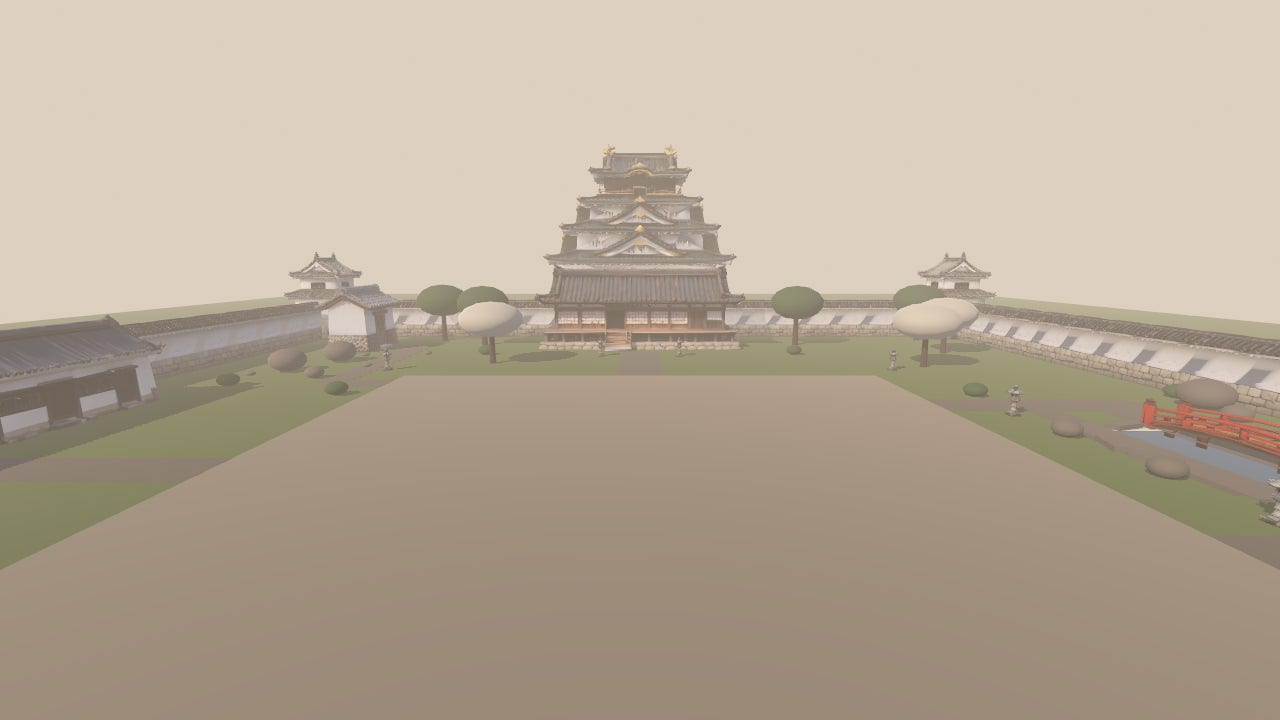
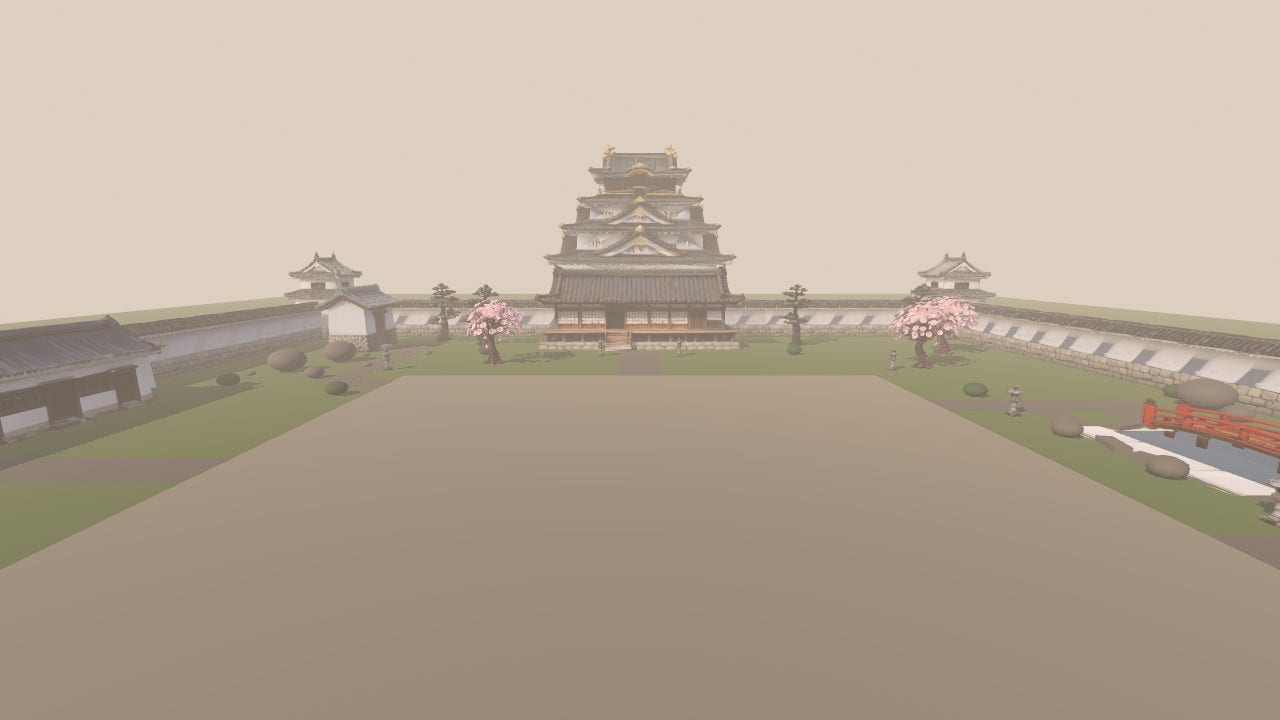
Courtyard batch 3 docs: deviations #23-#25, integration plan section 12 (budget and render cost before/after), credits, re-rendered screenshots

diff --git a/docs/courtyard/DEVIATIONS.md b/docs/courtyard/DEVIATIONS.md
@@ -8,7 +8,7 @@ The graybox is generated from `layout_data.py`, which is read in place (never co
 edited) by `tools/courtyard/gen_graybox.py`. Every placement, spawn, path and prefab comes
 from that file; re-run the generator after the blueprint changes.
 
-Layout, coordinates, spawns and nav AABB follow the blueprint; colliders follow it except where #17 and #20 fit them to the delivered meshes.
+Layout, coordinates, spawns and nav AABB follow the blueprint; colliders follow it except where #17, #20, #23 and #25 fit them to the delivered meshes.
 The deviations below are about file locations, graybox detail and fitting the delivered models.
 
 | # | Blueprint says | Built | Why |
@@ -35,6 +35,9 @@ The deviations below are about file locations, graybox detail and fitting the de
 | 20 | Bill's collider boxes: walls 5 m tall × 1.6 m, turrets 8 × 10 × 8, gate 16 × 10 × 8, hall 24 × 9 × 12 | Simple boxes fitted to BJORN's measured meshes (ground footprint, full height; `glb_probe.py`): **walls** 4.74 m tall × 1.5 m thick, still one box per straight run (5 boxes), each run extended to the turret / gate faces plus 0.1 m overlap (N 72.72 m; E/W 72.74 m; SW/SE 29.7 m); **turrets** 7.48 × 10.72 × 7.46; **gate** 13.52 × 10.91 × 6.4, centre z 33.88, courtyard face at z 30.68 (was 30); **hall** 22.4 × 9.42 × 11.78, centre z −38.89. | Kirk's request (Oct 30, 7:52 PM). The boxes follow the widest part at the ground, so battered turret bases and roof eaves still overhang/underhang the box slightly above head height. Re-checked: nav, routes, spawns, combat area, arch crossing and a new camera-clearance check (SpringArm sphere 0.25 m swept back from 1.55 m in 8 directions at every spawn and 5 tight spots: at least 2.81 m free everywhere, min arm is 2.2 m). |
 | 21 | No render-cost settings in the blueprint | `CourtyardProp` exports `model_lod_bias`, `model_visibility_range_end` and `..._margin`, applied to every GeometryInstance3D of the imported model (`MODEL_RENDER` in the generator): wall modules lod_bias 0.3; lanterns hidden beyond 55 m (5 m hysteresis). Sun: 2 PSSM splits, 80 m (#10). | Measured in a windowed Forward+ run (llvmpipe): over 6 views draw calls 513 → 316 and primitives 7.55M → 3.56M (INTEGRATION_PLAN §11). Shadow passes were ~74% of the primitives. No visible difference in the 6 screenshots. |
 | 22 | — (generator bug) | The 200 × 200 m outer grass plane (top y −0.055) covered the pond water (y −0.3), so the pond rendered as grass in every earlier build. Replaced by four boxes around the courtyard ground. | Found in the first windowed screenshots; the pond water is now visible. |
+| 23 | Trees (`PINE1–6`, `MAPLE1–3`, `SAKURA1–5`): 6 × 7 × 6 / 5 × 5 × 5 / 6 × 6 × 6 m footprints at (x, z), trunk cylinders r0.35 h3 (pine) and r0.3 h2.5 (maple, sakura) | BJORN's batch 3 meshes, one shared mesh per species (14 instances). Bill's (x, z) is used as the **trunk** position: the GLB origin is at the trunk base, so the canopy footprint is not centred on it. Uniform scale to Bill's height (`HEIGHT_FIT`), so canopies are smaller than his boxes: pine 6.25 × 7 × 3.58 (Z −40%), sakura 5.81 × 6 × 5.22 (−3% / −13%), maple 4.04 × 5 × 4.04 (−19%). Trunk-only cylinders per Kirk/BJORN: pine r0.45 h2.5 at local (−0.3, 1.25, 0.15), sakura r0.4 h2.3, maple r0.2 h2.0; canopies do not collide. Yaw overrides: **PINE3 88° (Bill 134°)**, **PINE6 312° (Bill 335°)**. Visibility range end 100 m (+10 m margin) for all trees. | At Bill's yaws the PINE3 canopy clipped 0.54 m into wall run WE11 and PINE6 0.29 m into turret TNE (`tools/courtyard/tree_fit.py`, now 0 clips at 0.25 m margin). Rotating was preferred to moving the trunks. Godot's auto-LOD saves only ~3% on these meshes (bias 0.05), so a visibility range is used instead; proper LODs requested from BJORN. Checked: trees are outside the combat square, ≥ 4.0 m from every spawn (nearest SAKURA5), all routes and the camera-clearance check pass. The pine root flare (~1 m) is wider than its r0.45 collider, so the player can step onto the visible roots. |
+| 24 | P5 / P6 bridge spurs: straight strips z −10 → 10 across the pond | Each strip is split into `<name>N` (z −10 → −5) and `<name>S` (5 → 10); nothing is drawn over the water. | With the real slab deck at y 0, P6's strip sat 2 cm above the deck and hid it; P5's strip floated over the water under the arch. Visual only; nav and colliders unchanged. |
+| 25 | Slab bridge `BRIDGE_SLAB` at (26, 0, 0), yaw 90, 11 × 0.4 × 2.0 m, "1 deck box + 2 rails" | BJORN's `bridge_stone_slab_deck2m.glb` (deck 2.0 m wide) rather than the main `bridge_stone_slab.glb` (2.667 m). Only the variant is copied (`sync_assets.py --apply bridge_stone_slab --variant deck2m`; `MODEL_VARIANT` makes the generator load it), so the main filename is never needed in the repo. `model_offset` y −0.394: deck top at y 0.000 (−0.005 … +0.002 along the walkable deck; the last few cm bevel to −0.05), supports bottom out at −0.394 (0.094 m under the water at −0.30). Rails are **invisible** box colliders at x ±1.075 from the centre, top 0.90 m above the deck. `AUTHORED_SIZE` 11 × 0.4 × 2.667 for the size check (the GLB's AABB includes the support blocks). | Kirk's instruction (8:38 PM). The model has no visible rails, so the rail colliders are invisible walls; BJORN asked for visible rails or a note. The deck ends overlap the banks by 0.5 m and sit under the path strips, so there is no lip or z-fight. Checked: nav crossing PASS (path low y 0.40 on the navmesh, 16.0 m, within 1 m of x 26 over the pond), rails 0.90 m above the deck at all 10 probe points, camera clearance PASS on the deck. The slab's albedo (mean RGB 150/150/139) reads near-white in sunlight next to the wall stone (screenshot 03). |
 
 ## Fixed: rotation bug in the generator (affects the first graybox commit `ffcf394`)
 `gen_graybox.py` wrote the basis into the `Transform3D(...)` literal column by column, but

diff --git a/docs/courtyard/INTEGRATION_PLAN.md b/docs/courtyard/INTEGRATION_PLAN.md
@@ -322,3 +322,63 @@ vs the 2.2 m minimum). Gameplay tests: 109 passed / 8 failed (the same 8 as the 
   in contrast. Worth a look on a real GPU before tuning.
 - Keep backdrop (06): from the courtyard the main hall hides the keep's lower tiers; only the top
   two tiers show above the hall roof.
+
+## 12. BJORN batch 3: stone slab bridge and trees (Oct 30, 2026, ~8:55 PM EDT)
+Kirk's 8:38 PM brief; BJORN's "Batch 3 notes" in `library/HANDOFF.md` (read only).
+
+**Intake.** `sync_assets.py --apply` for `tree_pine_kuromatsu`, `tree_sakura`, `tree_maple_momiji`,
+and `bridge_stone_slab --variant deck2m` (only `bridge_stone_slab_deck2m.glb` is copied; the main
+2.667 m-deck file is not needed because `MODEL_VARIANT` points the generator at the variant).
+`generate_lods=true` on all four imports; textures VRAM-compressed by `vram_textures.py`. Graybox
+fallbacks kept (trunk cylinder + canopy, slab deck box) and used whenever a GLB is missing.
+Size checks: trees fitted to Bill's height (±10%, footprint may only be smaller or ≤ +10%), slab
+11 × 0.4 × 2.667 exact (authored size).
+
+**Slab bridge** (DEVIATIONS #25): (26, 0, 0), yaw 90, `model_offset` y −0.394. Deck top at y 0.000
+(−0.005 … +0.002 along the walkable deck), supports to −0.394 (0.094 m under the water),
+deck ends 0.5 m onto each bank. Deck box collider 2.0 m wide; invisible rail boxes at x 24.925 /
+27.075, 0.90 m above the deck. Nav crossing: path low y 0.40 (navmesh), 16.0 m, centred on x 26.
+
+**Trees** (DEVIATIONS #23): 6 pines, 5 sakura, 3 maples, one shared mesh per species, placed by
+trunk at Bill's (x, z). Trunk-only cylinders (pine r0.45 h2.5 offset, sakura r0.4 h2.3, maple
+r0.2 h2.0); canopies don't collide. PINE3 / PINE6 yaws changed to stop canopy clipping
+(`tools/courtyard/tree_fit.py`: 0 clips at 0.25 m margin). Visibility range end 100 m (+10 m
+margin); Godot's auto-LOD only saved ~3% at bias 0.05. Path spurs P5/P6 split at the pond (#24).
+
+**Checks (headless, not visual/gameplay verification).** `check_courtyard.gd` PASS, 188 checks
+(navmesh 379 polygons): 14 trees with 1 collider each, all outside the 40 × 40 combat square,
+nearest spawn 4.0 m (SAKURA5); new routes (east path N/S, west path, gate forecourt → sakura
+lawn W/E) pass; camera clearance PASS incl. the slab deck (worst 4.20 m there). Gameplay tests
+109 passed / 8 failed (same 8 as the base).
+
+**Budget** (`asset_budget.py`) before → after:
+
+| | Before batch 3 | After batch 3 |
+|---|---|---|
+| Scene triangles (instanced) | 1,243,452 (124,134 unique) | 1,407,382 (160,120 unique) |
+| Texture VRAM (BJORN assets, compressed) | 31.46 MB | 42.64 MB |
+| Git cost (BJORN assets) | 45.09 MB | 67.98 MB |
+| Godot monitors, video / texture memory | 312.0 / 166.5 MB | 324.8 / 177.2 MB |
+
+**Render cost** (same method as §11, windowed llvmpipe, primitives include shadow passes):
+
+| View | Draw calls before → after | Primitives before → after |
+|---|---|---|
+| 01 overview from gate | 98 → 89 | 853,630 → 1,057,958 |
+| 02 combat centre, eye height | 66 → 58 | 692,652 → 859,532 |
+| 03 pond + arch bridge | 74 → 71 | 620,292 → 700,754 |
+| 04 wall / turret seam | 27 → 25 | 457,154 → 551,624 |
+| 05 gate interior | 16 → 15 | 271,188 → 306,138 |
+| 06 keep backdrop | 35 → 31 | 661,636 → 767,760 |
+| **Total** | **316 → 289** | **3,556,552 → 4,243,766 (+19%)** |
+
+Draw calls fell because each graybox tree (trunk + canopy, 2 meshes) became one mesh; primitives
+rose with the 10–12k-triangle trees, mostly in shadow passes. Real tree LODs (~3–4k) from BJORN
+are the fix if this matters on modest PCs.
+
+**Screenshots** replaced (`docs/courtyard/screenshots/`, `/workspace/kengeki_shots/`); the
+previous set is in `/workspace/kengeki_shots/before_batch3/`. Seen in the screenshots: trees stand
+on the ground with no floating or wall/turret clipping (01, 02, 04, 06 + close-ups of PINE3, PINE6,
+sakura and maples); no path strip over the pond; slab supports visible under the deck and the deck
+meets the path ends flush (03). The slab stone reads near-white in sunlight, paler than the wall
+stone. Maple trunks look slim; the pine root flare extends past its collider.

diff --git a/environment/courtyard/assets/CREDITS.md b/environment/courtyard/assets/CREDITS.md
@@ -20,4 +20,8 @@ build box (not legal advice; some terms are still unverified there).
 | `Courtyard/bridge_arched_taikobashi` | Tencent Hunyuan 3D (AI-generated) | BJORN pipeline: 8,000 tris, 1024² textures, non-uniform fit to 13 × 1.8 × 2.4 m (anisotropy 3.14). v2 (Oct 30, 8:06 PM EDT): symmetric, 8 piers extended down, origin at the pier bottoms, 13 × 2.05 × 2.4 m, 8,000 tris; v1 stays in git history and in BJORN's library as `_v1.glb` |
 | `Courtyard/barracks_nagaya` | Tencent Hunyuan 3D (AI-generated) | BJORN pipeline: 12,000 tris, 1024² textures (JPEG albedo), 24 × 6 × 6 m |
 | `Courtyard/storehouse_kura` | Tencent Hunyuan 3D (AI-generated) | BJORN pipeline: 6,000 tris, 1024² textures, 8 × 7 × 6 m, door +Z |
+| `Courtyard/bridge_stone_slab` (`bridge_stone_slab_deck2m.glb`) | Tencent Hunyuan 3D (AI-generated) | BJORN pipeline: 2,000 tris, 1024² textures, 11 × 0.4 × 2.667 m (deck 2.0 m wide variant) |
+| `Courtyard/tree_pine_kuromatsu` | Tencent Hunyuan 3D (AI-generated) | BJORN pipeline: 12,000 tris, 1024² textures, 6.25 × 7 × 3.58 m, origin at trunk base |
+| `Courtyard/tree_sakura` | Tencent Hunyuan 3D (AI-generated) | BJORN pipeline: 11,986 tris, 1024² textures, 5.81 × 6 × 5.22 m, origin at trunk base |
+| `Courtyard/tree_maple_momiji` | Tencent Hunyuan 3D (AI-generated) | BJORN pipeline: 10,000 tris, 1024² textures, 4.04 × 5 × 4.04 m, origin at trunk base |
 | `Courtyard/castle_keep_tenshu` | Tencent Hunyuan 3D (AI-generated) | BJORN pipeline: 20,000 tris, 1024² textures (JPEG albedo), 30 × 28 × 22 m, backdrop only |
